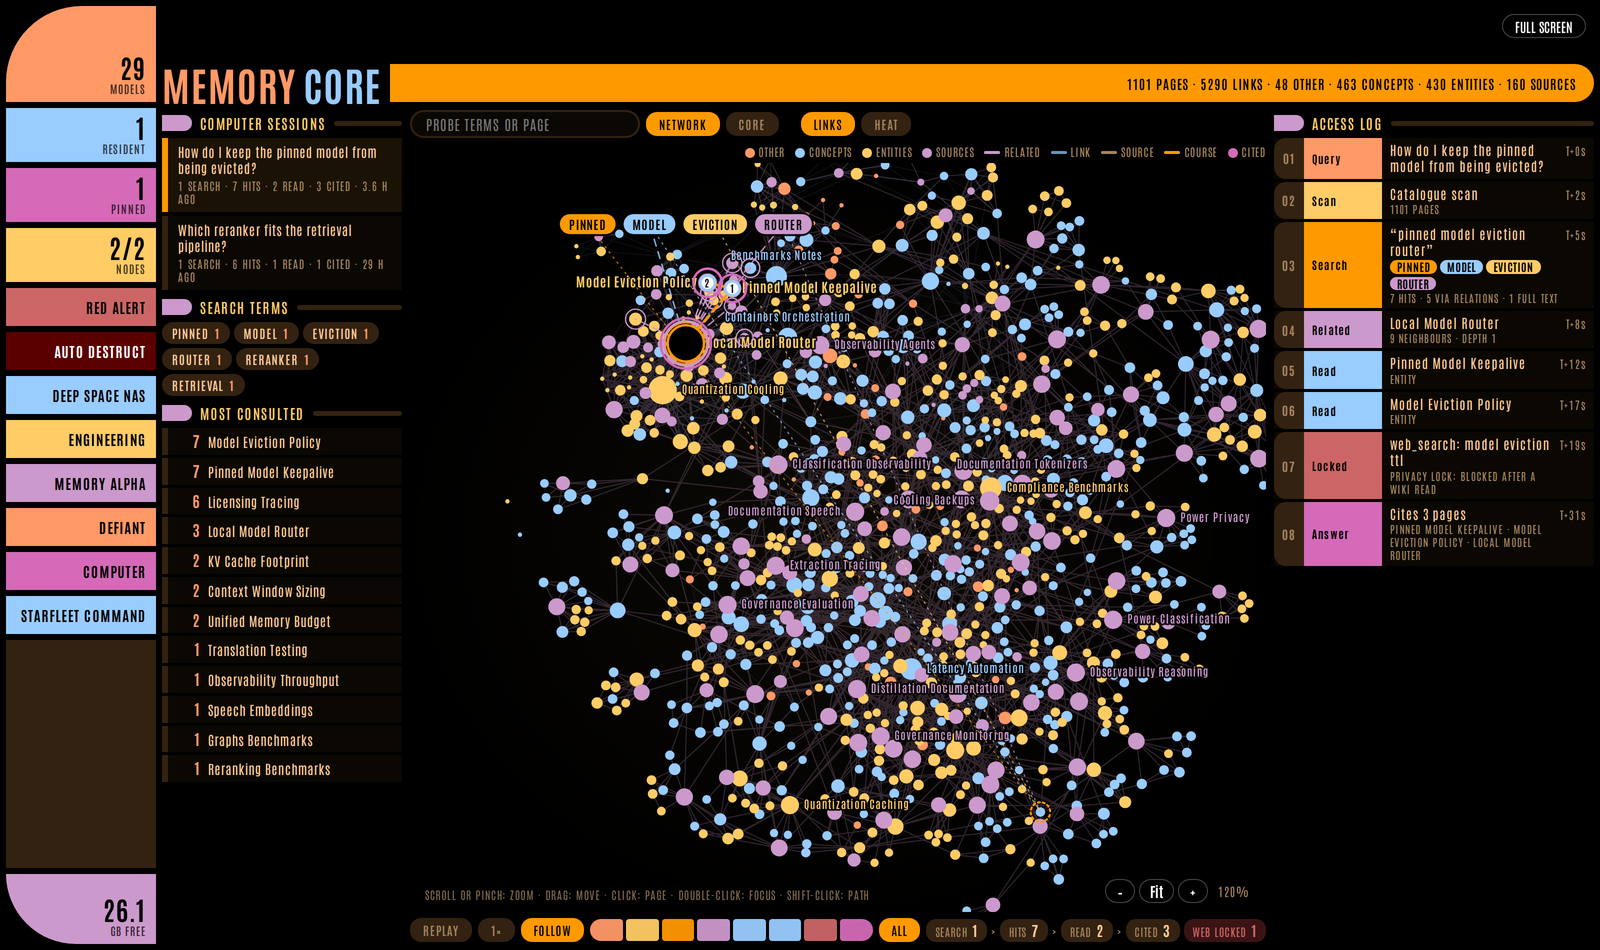
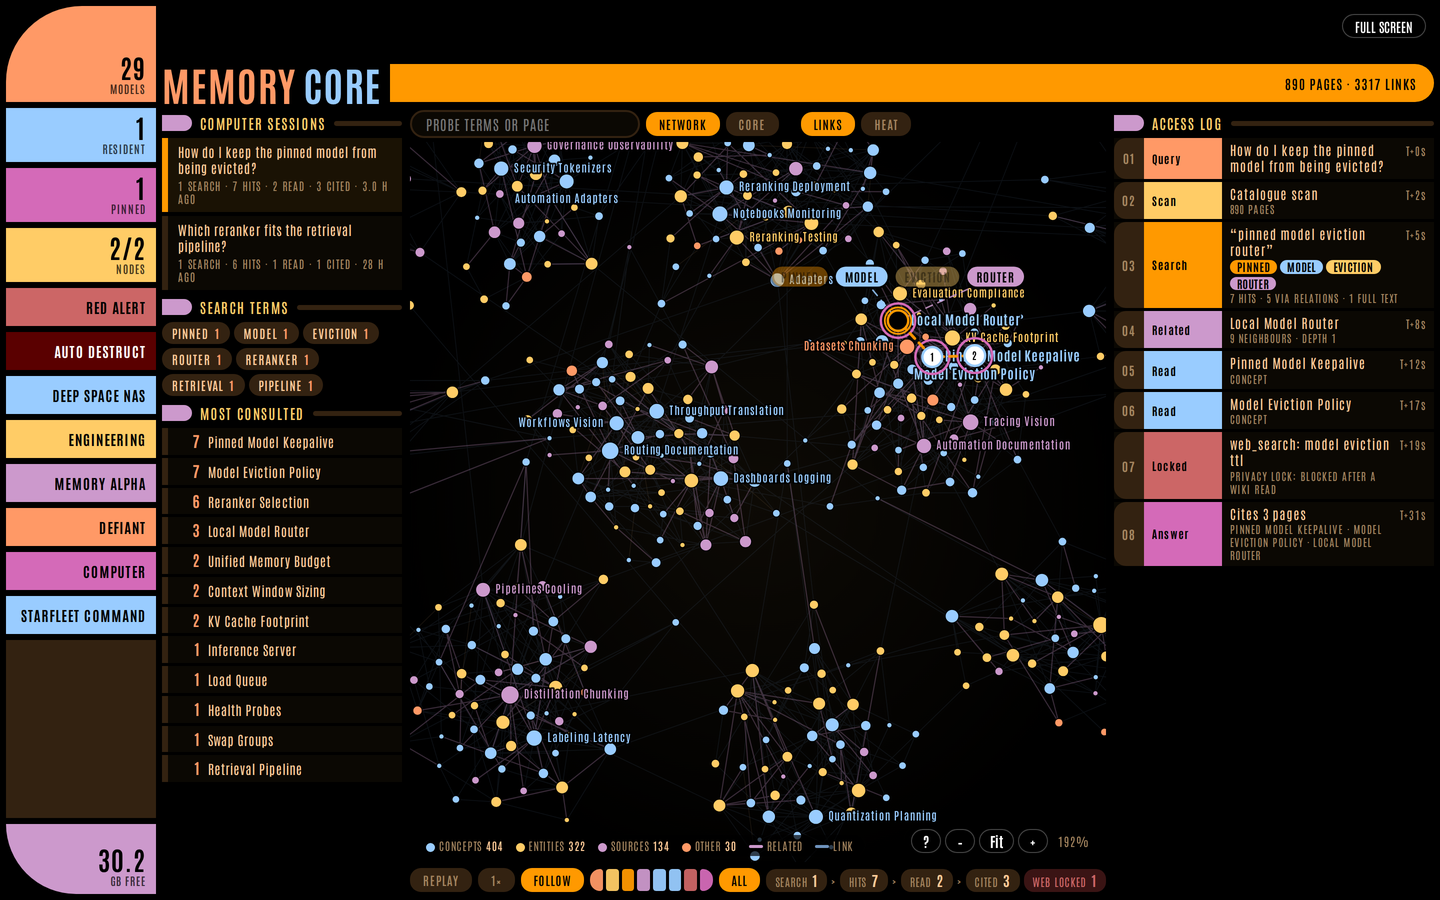
Memory Core: a quieter map, and example data from a generated wiki
The overview now draws only the related links and a few page names;
plain links and more names appear with the zoom. Dots no longer overlap,
the legend is one line inside the map, the help text sits behind a
button, and the side panels and the replay bar stay hidden until a
Computer chat has used the wiki. A whole chat is drawn as a summary; the
full picture of a search belongs to the step you hover or replay.

The README screenshot and the self-check strings in wikicore.py now use
a generated example wiki.

diff --git a/fleet-ui/wikicore.py b/fleet-ui/wikicore.py
@@ -211,13 +211,13 @@ def trails(chat_dir):
 
 
 if __name__ == "__main__":       # self-check: python3 wikicore.py
-    s = _step("wiki_search", {"query": "llama swap"},
-              "Search \"x\"\n1. `wiki/entities/llama-swap.md` | llama-swap | entity | entry (catalogue match: title)\n"
-              "2. `wiki/entities/ds4 (DwarfStar).md` | ds4 (DwarfStar) | entity | via [[llama-swap]] (related): x\n", 1.0)
-    assert [h["p"] for h in s["hits"]] == ["wiki/entities/llama-swap.md", "wiki/entities/ds4 (DwarfStar).md"]
-    assert s["hits"][1]["via"] == "llama-swap" and s["hits"][1]["rel"] == "related" and s["hits"][0]["via"] is None
-    r = _step("wiki_read", {"path": "llama-swap"}, "# wiki/entities/llama-swap.md\nOpen in browser: x", 2.0)
-    assert r["target"] == "wiki/entities/llama-swap.md"
+    s = _step("wiki_search", {"query": "example router"},
+              "Search \"x\"\n1. `wiki/entities/Example Router.md` | Example Router | entity | entry (catalogue match: title)\n"
+              "2. `wiki/entities/Example Server (v2).md` | Example Server (v2) | entity | via [[Example Router]] (related): x\n", 1.0)
+    assert [h["p"] for h in s["hits"]] == ["wiki/entities/Example Router.md", "wiki/entities/Example Server (v2).md"]
+    assert s["hits"][1]["via"] == "Example Router" and s["hits"][1]["rel"] == "related" and s["hits"][0]["via"] is None
+    r = _step("wiki_read", {"path": "Example Router"}, "# wiki/entities/Example Router.md\nOpen in browser: x", 2.0)
+    assert r["target"] == "wiki/entities/Example Router.md"
     w = _step("google_search", {"q": "x"}, "Refused: web search is off for the rest of this answer", 3.0)
     assert w["tool"] == "web" and w["blocked"]
     assert _paths("open: http://h/p/wiki/concepts/A%20B%20%28c%29.md)") == ["wiki/concepts/A B (c).md"]

diff --git a/README.md b/README.md
@@ -686,7 +686,7 @@ saved even when an answer fails or the browser goes away.
 
 <p align="center">
   <img src="docs/images/memory-core.png" width="820" alt="Memory Core: the wiki as a network of coloured dots joined by links, with a Computer session drawn on top (search-term pills wired to the pages they matched, numbered reads, cited pages); sessions, search terms and most consulted pages on the left, the access log on the right and the replay bar under the map">
-  <br><sub><b>Memory Core</b>: the wiki as a zoomable network; a Computer session as search terms, hits, relation hops, numbered reads and cited pages, with the access log and the replay bar. Example data.</sub>
+  <br><sub><b>Memory Core</b>: the wiki as a zoomable network; a Computer session as search terms, hits, numbered reads and cited pages, with the access log and the replay bar. Example data from a generated wiki.</sub>
 </p>
 
 Memory Core draws the LLM wiki as a map you can zoom and move: every page is a dot
@@ -694,20 +694,23 @@ Memory Core draws the LLM wiki as a map you can zoom and move: every page is a d
 relation). In the **Network** layout a force simulation pulls linked pages together, so
 clusters are topics; it settles once and the browser keeps it, so pages stay where they
 were. The **Core** layout is the ship's memory core: one ring per page type (other,
-concepts, entities, sources, from the centre out). Wheel, pinch or the buttons zoom,
-dragging moves the map, and page names appear as you zoom in.
+concepts, entities, sources, from the centre out). Wheel, pinch or the buttons zoom and
+dragging moves the map. The overview stays quiet: it draws the related links and a few
+page names, and the plain links and more names appear as you zoom in. Until a Computer
+chat has used the wiki, the side panels and the replay bar stay hidden.
 
 - **Connections.** Hover a page for its links, click it for its neighbourhood,
   double-click to zoom to it, Shift-click a second page (or **Path to…**) for the
   shortest chain of links between the two.
 - **Term probe.** Type terms: each becomes a pill wired to the pages whose title, tags
   or summary contain it. Pages that several terms share are the bridges between them.
-- **Computer.** A chat that used the wiki is drawn as its search: term pills to the
-  pages they matched, dashed lines to pages reached over a relation, dotted lines to
-  full-text hits, the pages read (numbered) and the pages the answer cited. The bar
-  under the map replays it step by step with the camera following, and counts
-  searches, hits, reads and cited pages. A web search refused after a wiki read shows
-  as **Locked**.
+- **Computer.** A chat that used the wiki is drawn as a summary: its search terms, the
+  pages they matched, the pages read (numbered) and the pages the answer cited. Hover a
+  step or replay the chat for the full picture of a search: term pills to the pages they
+  matched, dashed lines to pages reached over a relation, dotted lines to full-text
+  hits. The bar under the map replays it step by step with the camera following, and
+  counts searches, hits, reads and cited pages. A web search refused after a wiki read
+  shows as **Locked**.
 
 It is read-only. [`wikicore.py`](fleet-ui) exports the graph with the wiki MCP server's
 own link scanner, run inside its container with `docker exec` (`FLEET_WIKI_CONTAINER`),
